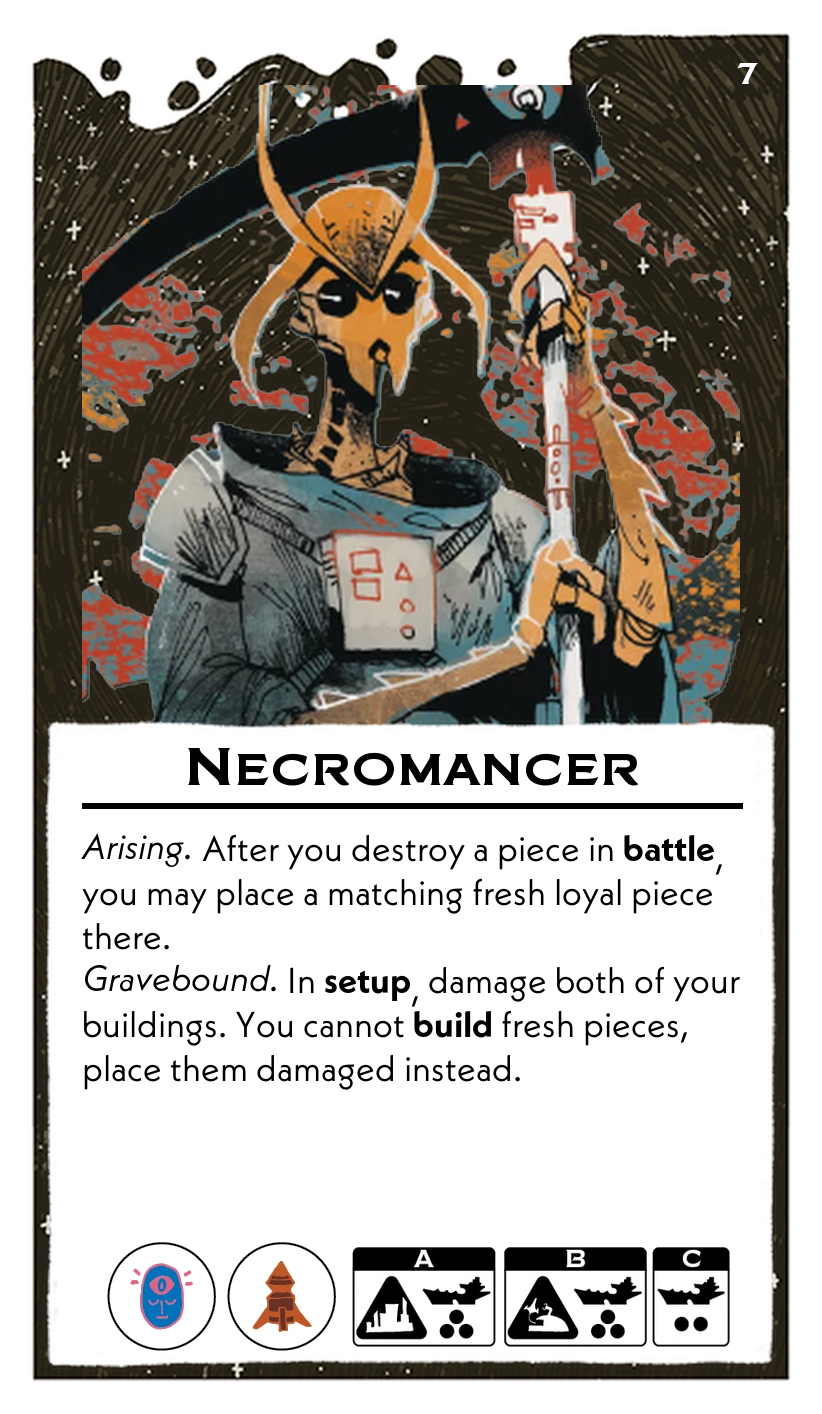
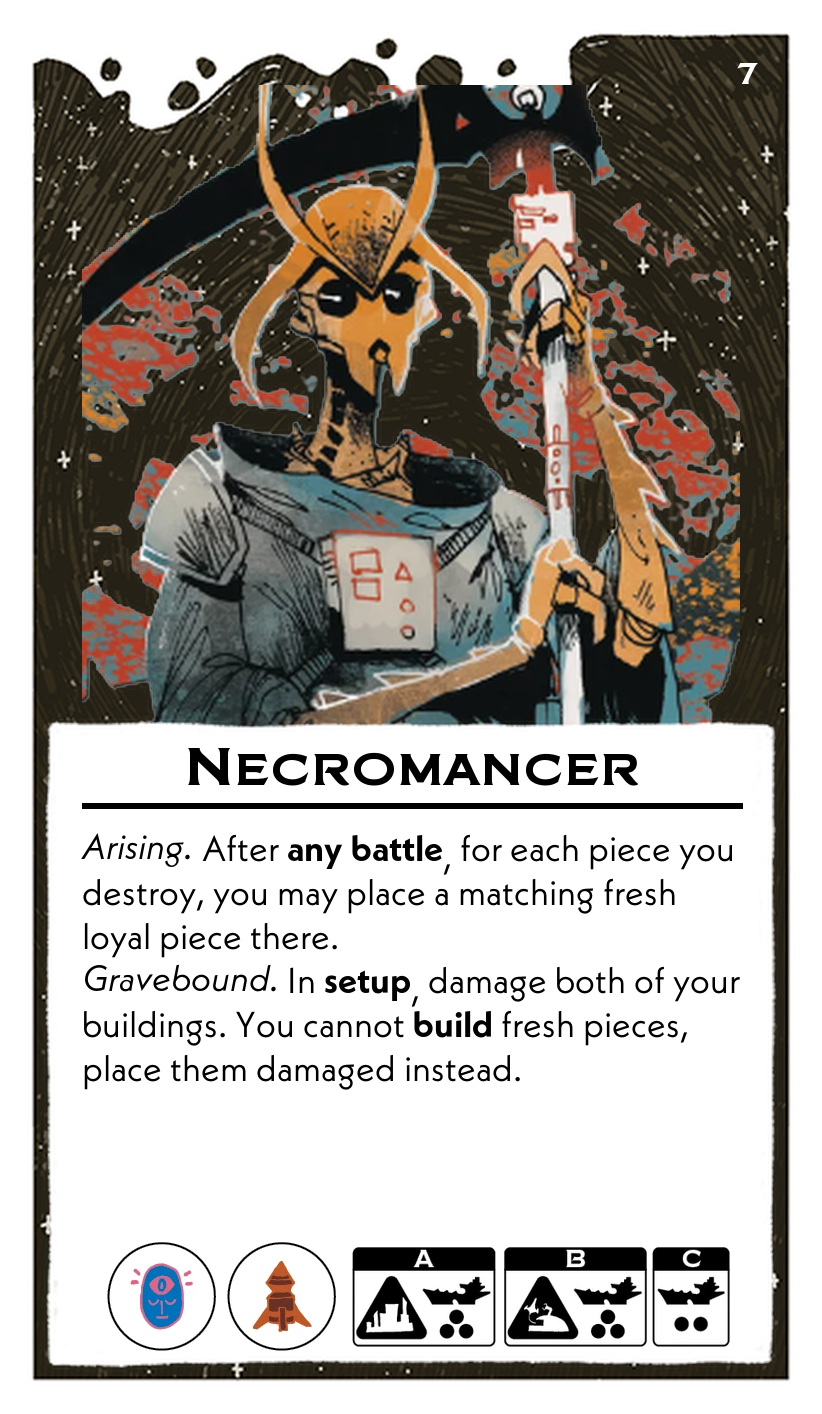
necro

Changed region(s): [[0.0912, 0.5912, 0.882, 0.6846]]

diff --git a/scripts/leadersFormatted.py b/scripts/leadersFormatted.py
@@ -97,7 +97,7 @@ leaders = [
     {
         "name": "Necromancer",
         "abilities": (
-            "*Arising.* After you destroy a piece in **battle**, you may place a matching fresh loyal piece there.\n"
+            "*Arising.* After **any** **battle**, for each piece you destroy, you may place a matching fresh loyal piece there.\n"
             "*Gravebound.* In **setup**, damage both of your buildings. You cannot **build** fresh pieces, place them damaged instead."
         ),
         "resources": ["Psionic", "Weapon"],
